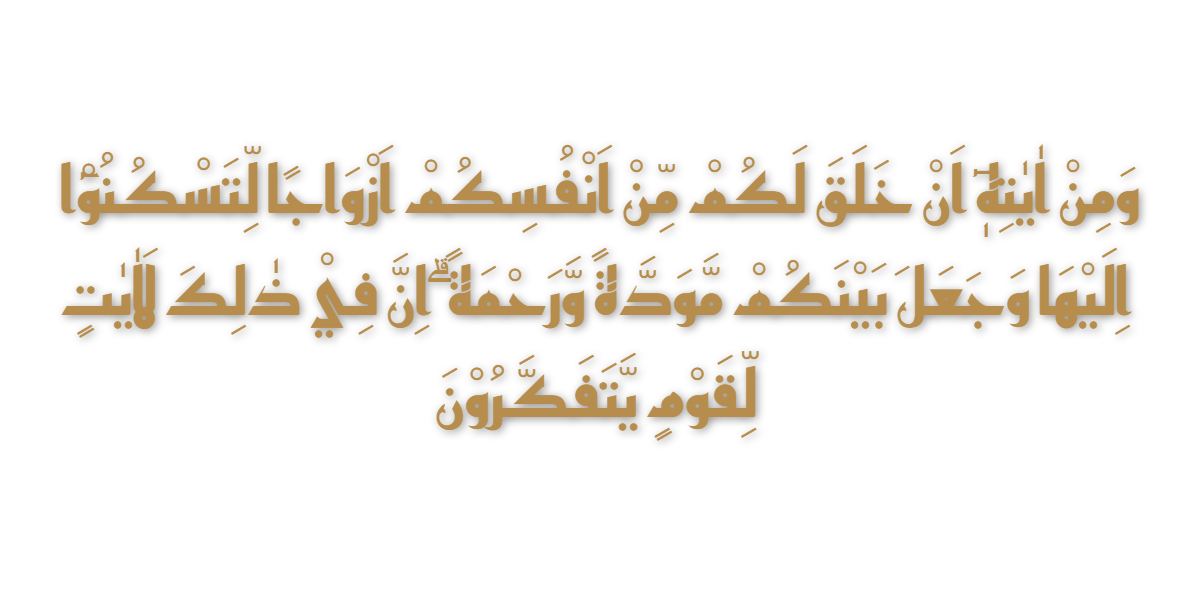
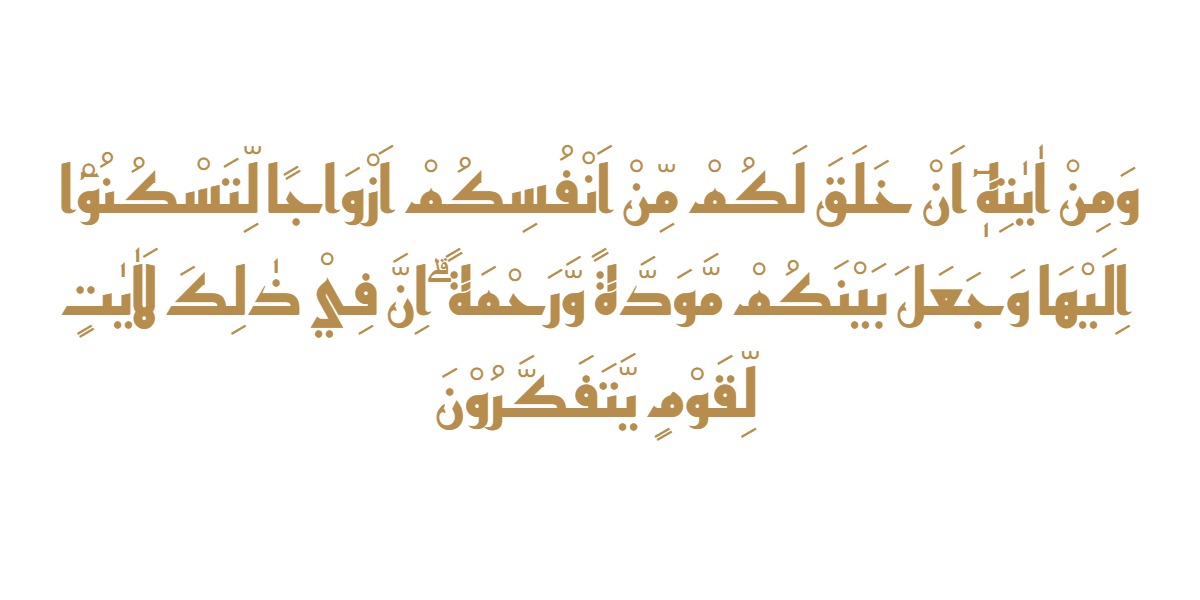
init countdown

diff --git a/src/components/CountdownSlide.jsx b/src/components/CountdownSlide.jsx
@@ -1,0 +1,60 @@
+
+import { useEffect, useState } from "react";
+import { weddingData } from "../data/weddingData.js";
+
+function getRemainingTime() {
+  const target = new Date(
+    `${weddingData.event.date.slice(0, 10)}T08:00:00+07:00`
+  ).getTime();
+
+  const difference = Math.max(0, target - Date.now());
+
+  return {
+    days: Math.floor(difference / 86400000),
+    hours: Math.floor((difference / 3600000) % 24),
+    minutes: Math.floor((difference / 60000) % 60),
+    seconds: Math.floor((difference / 1000) % 60),
+  };
+}
+
+export default function CountdownSlide() {
+  const [remaining, setRemaining] = useState(getRemainingTime);
+
+  useEffect(() => {
+    const timer = setInterval(() => {
+      setRemaining(getRemainingTime());
+    }, 1000);
+
+    return () => clearInterval(timer);
+  }, []);
+
+  const units = [
+    { label: "Hari", value: remaining.days },
+    { label: "Jam", value: remaining.hours },
+    { label: "Menit", value: remaining.minutes },
+    { label: "Detik", value: remaining.seconds },
+  ];
+
+  return (
+    <section className="countdown-slide">
+      <div className="countdown-heading">
+        <span>THE WEDDING OF</span>
+        <h1>Nana &amp; Meysa</h1>
+        <p>Menuju Hari Bahagia</p>
+      </div>
+
+      <div className="countdown-timer">
+        {units.map(({ label, value }) => (
+          <div className="countdown-unit" key={label}>
+            <strong>{String(value).padStart(2, "0")}</strong>
+            <span>{label}</span>
+          </div>
+        ))}
+      </div>
+
+      <p className="countdown-message">
+        Menghitung setiap detik menuju janji suci
+      </p>
+    </section>
+  );
+}

diff --git a/src/index.css b/src/index.css
@@ -436,3 +436,87 @@ button:disabled {
   font-weight: bold;
   color: #b68d4c;
 }
+
+/* =================================
+   SLIDE 3 — COUNTDOWN
+================================= */
+
+.countdown-slide {
+  width: 100%;
+  min-height: 100%;
+
+  display: flex;
+  flex-direction: column;
+  align-items: center;
+  justify-content: center;
+  gap: 32px;
+
+  padding: 24px 30px;
+  text-align: center;
+}
+
+.countdown-heading {
+  display: flex;
+  flex-direction: column;
+  align-items: center;
+  gap: 10px;
+}
+
+.countdown-heading span {
+  font-size: 11px;
+  letter-spacing: 2px;
+  color: #b68d4c;
+}
+
+.countdown-heading h1 {
+  margin: 0;
+  font-size: clamp(26px, 7vw, 34px);
+  color: #59442f;
+}
+
+.countdown-heading p {
+  margin: 0;
+  font-size: 14px;
+  color: #927a5b;
+}
+
+.countdown-timer {
+  display: grid;
+  grid-template-columns: repeat(4, minmax(0, 1fr));
+  gap: 8px;
+  width: 100%;
+  max-width: 340px;
+}
+
+.countdown-unit {
+  min-width: 0;
+  padding: 16px 4px;
+
+  display: flex;
+  flex-direction: column;
+  align-items: center;
+  gap: 8px;
+
+  border: 1px solid #d6bc87;
+  border-radius: 10px;
+}
+
+.countdown-unit strong {
+  font-size: clamp(20px, 5vw, 28px);
+  font-weight: bold;
+  color: #b68d4c;
+  font-variant-numeric: tabular-nums;
+}
+
+.countdown-unit span {
+  font-size: 11px;
+  color: #927a5b;
+}
+
+.countdown-message {
+  margin: 0;
+  max-width: 280px;
+  font-size: 12px;
+  line-height: 1.6;
+  color: #59442f;
+}

diff --git a/src/components/SlideContent.jsx b/src/components/SlideContent.jsx
@@ -1,12 +1,13 @@
 import OpeningSlide from "./OpeningSlide.jsx";
 import { weddingData as data } from "../data/weddingData.js";
 import VerseSlide from "./VerseSlide.jsx";
+import CountdownSlide from "./CountdownSlide.jsx";
 
 export default function SlideContent({ id }) {
   switch (id) {
     case "opening": return <OpeningSlide />;
     case "verse": return <VerseSlide />;
-    case "countdown": return <><h1>Menuju Hari Bahagia</h1><p>{data.event.dateText}</p></>;
+    case "countdown": return <CountdownSlide />;
     case "event": return <><h1>Akad &amp; Resepsi</h1><p>{data.event.dateText}</p><p>Akad: {data.event.akadTime}</p><p>Resepsi: {data.event.receptionTime}</p><p>{data.event.place}, {data.event.address}</p></>;
     case "gallery": return <><h1>Galeri</h1><div className="gallery">{data.gallery.map((src) => <img key={src} src={src} alt="Galeri pasangan" loading="lazy" />)}</div></>;
     case "rsvp": return <><h1>Konfirmasi Kehadiran</h1></>;
